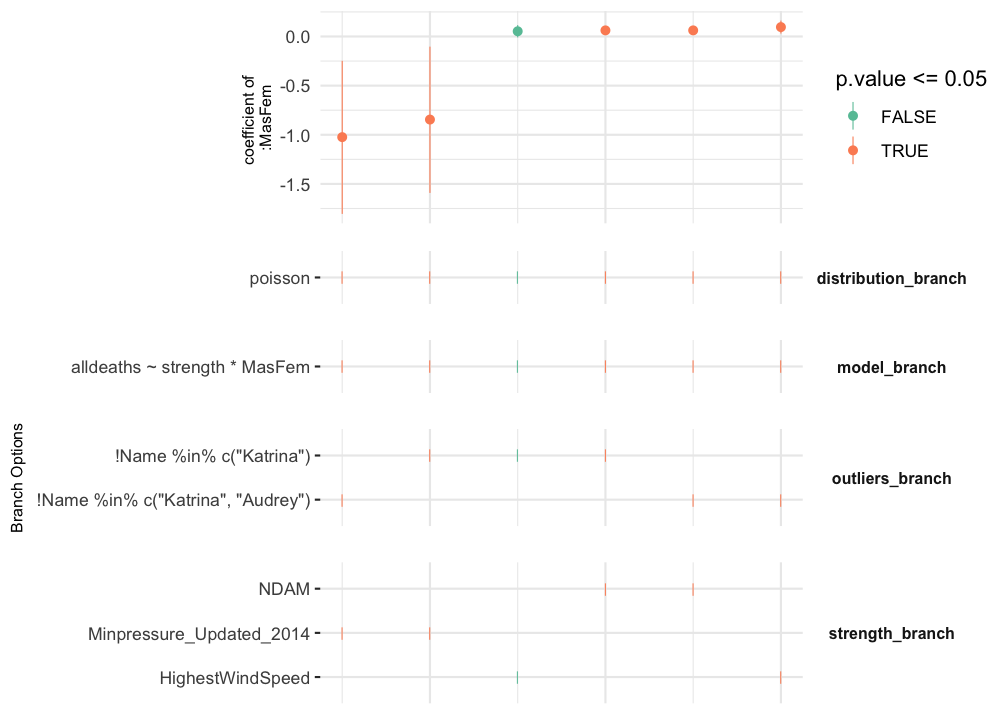
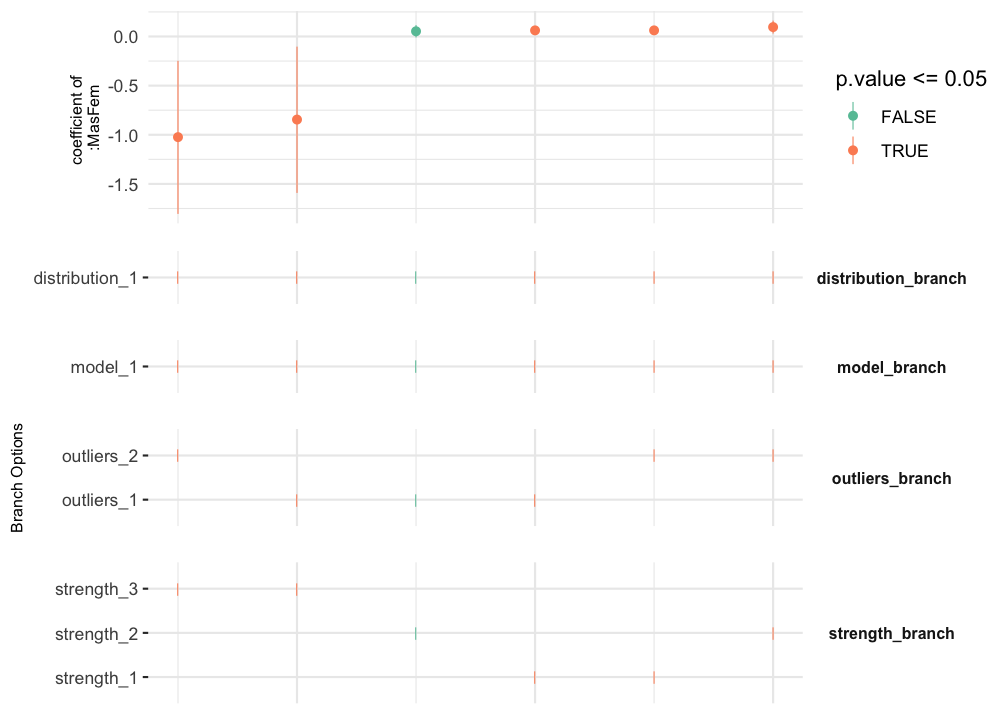
enable labels in tree

diff --git a/README.md b/README.md
@@ -125,23 +125,24 @@ multiverse.
 ``` r
 res <- summary(mv)
 res
-#> # A tibble: 24 × 12
+#> # A tibble: 24 × 16
 #>    universe outliers_br…¹ stren…² model…³ distr…⁴ term  estimate std.e…⁵ stati…⁶
 #>    <fct>    <fct>         <fct>   <fct>   <fct>   <chr>    <dbl>   <dbl>   <dbl>
-#>  1 1        "!Name %in% … NDAM    alldea… poisson (Int…  2.13e+0 8.04e-2  26.5  
-#>  2 1        "!Name %in% … NDAM    alldea… poisson stre…  3.02e-5 2.63e-6  11.5  
-#>  3 1        "!Name %in% … NDAM    alldea… poisson MasF…  6.23e-2 1.01e-2   6.19 
-#>  4 1        "!Name %in% … NDAM    alldea… poisson stre…  7.96e-7 3.20e-7   2.49 
-#>  5 2        "!Name %in% … Highes… alldea… poisson (Int… -8.59e-2 2.65e-1  -0.324
-#>  6 2        "!Name %in% … Highes… alldea… poisson stre…  2.35e-2 2.17e-3  10.8  
-#>  7 2        "!Name %in% … Highes… alldea… poisson MasF…  5.31e-2 3.20e-2   1.66 
-#>  8 2        "!Name %in% … Highes… alldea… poisson stre…  3.32e-4 2.60e-4   1.28 
-#>  9 3        "!Name %in% … Minpre… alldea… poisson (Int…  4.74e+1 3.17e+0  15.0  
-#> 10 3        "!Name %in% … Minpre… alldea… poisson stre… -4.69e-2 3.34e-3 -14.0  
-#> # … with 14 more rows, 3 more variables: p.value <dbl>, conf.low <dbl>,
-#> #   conf.high <dbl>, and abbreviated variable names ¹outliers_branch,
-#> #   ²strength_branch, ³model_branch, ⁴distribution_branch, ⁵std.error,
-#> #   ⁶statistic
+#>  1 1        outliers_1    streng… model_1 distri… (Int…  2.13e+0 8.04e-2  26.5  
+#>  2 1        outliers_1    streng… model_1 distri… stre…  3.02e-5 2.63e-6  11.5  
+#>  3 1        outliers_1    streng… model_1 distri… MasF…  6.23e-2 1.01e-2   6.19 
+#>  4 1        outliers_1    streng… model_1 distri… stre…  7.96e-7 3.20e-7   2.49 
+#>  5 2        outliers_1    streng… model_1 distri… (Int… -8.59e-2 2.65e-1  -0.324
+#>  6 2        outliers_1    streng… model_1 distri… stre…  2.35e-2 2.17e-3  10.8  
+#>  7 2        outliers_1    streng… model_1 distri… MasF…  5.31e-2 3.20e-2   1.66 
+#>  8 2        outliers_1    streng… model_1 distri… stre…  3.32e-4 2.60e-4   1.28 
+#>  9 3        outliers_1    streng… model_1 distri… (Int…  4.74e+1 3.17e+0  15.0  
+#> 10 3        outliers_1    streng… model_1 distri… stre… -4.69e-2 3.34e-3 -14.0  
+#> # … with 14 more rows, 7 more variables: p.value <dbl>, conf.low <dbl>,
+#> #   conf.high <dbl>, outliers_branch_code <fct>, strength_branch_code <fct>,
+#> #   model_branch_code <fct>, distribution_branch_code <fct>, and abbreviated
+#> #   variable names ¹outliers_branch, ²strength_branch, ³model_branch,
+#> #   ⁴distribution_branch, ⁵std.error, ⁶statistic
 #> # ℹ Use `print(n = ...)` to see more rows, and `colnames()` to see all variable names
 ```
 
@@ -156,15 +157,14 @@ res %>%
   filter(term == "MasFem") %>%
   select(outliers_branch, strength_branch, term, estimate, conf.low, conf.high)
 #> # A tibble: 6 × 6
-#>   outliers_branch                         stren…¹ term  estim…² conf.low conf.…³
-#>   <fct>                                   <fct>   <chr>   <dbl>    <dbl>   <dbl>
-#> 1 "!Name %in% c(\"Katrina\")"             NDAM    MasF…  0.0623  0.0427   0.0822
-#> 2 "!Name %in% c(\"Katrina\")"             Highes… MasF…  0.0531 -0.00942  0.116 
-#> 3 "!Name %in% c(\"Katrina\")"             Minpre… MasF… -0.845  -1.59    -0.103 
-#> 4 "!Name %in% c(\"Katrina\", \"Audrey\")" NDAM    MasF…  0.0623  0.0427   0.0822
-#> 5 "!Name %in% c(\"Katrina\", \"Audrey\")" Highes… MasF…  0.0956  0.0301   0.161 
-#> 6 "!Name %in% c(\"Katrina\", \"Audrey\")" Minpre… MasF… -1.02   -1.81    -0.247 
-#> # … with abbreviated variable names ¹strength_branch, ²estimate, ³conf.high
+#>   outliers_branch strength_branch term   estimate conf.low conf.high
+#>   <fct>           <fct>           <chr>     <dbl>    <dbl>     <dbl>
+#> 1 outliers_1      strength_1      MasFem   0.0623  0.0427     0.0822
+#> 2 outliers_1      strength_2      MasFem   0.0531 -0.00942    0.116 
+#> 3 outliers_1      strength_3      MasFem  -0.845  -1.59      -0.103 
+#> 4 outliers_2      strength_1      MasFem   0.0623  0.0427     0.0822
+#> 5 outliers_2      strength_2      MasFem   0.0956  0.0301     0.161 
+#> 6 outliers_2      strength_3      MasFem  -1.02   -1.81      -0.247
 ```
 
 ### Plot a Specification Curve
